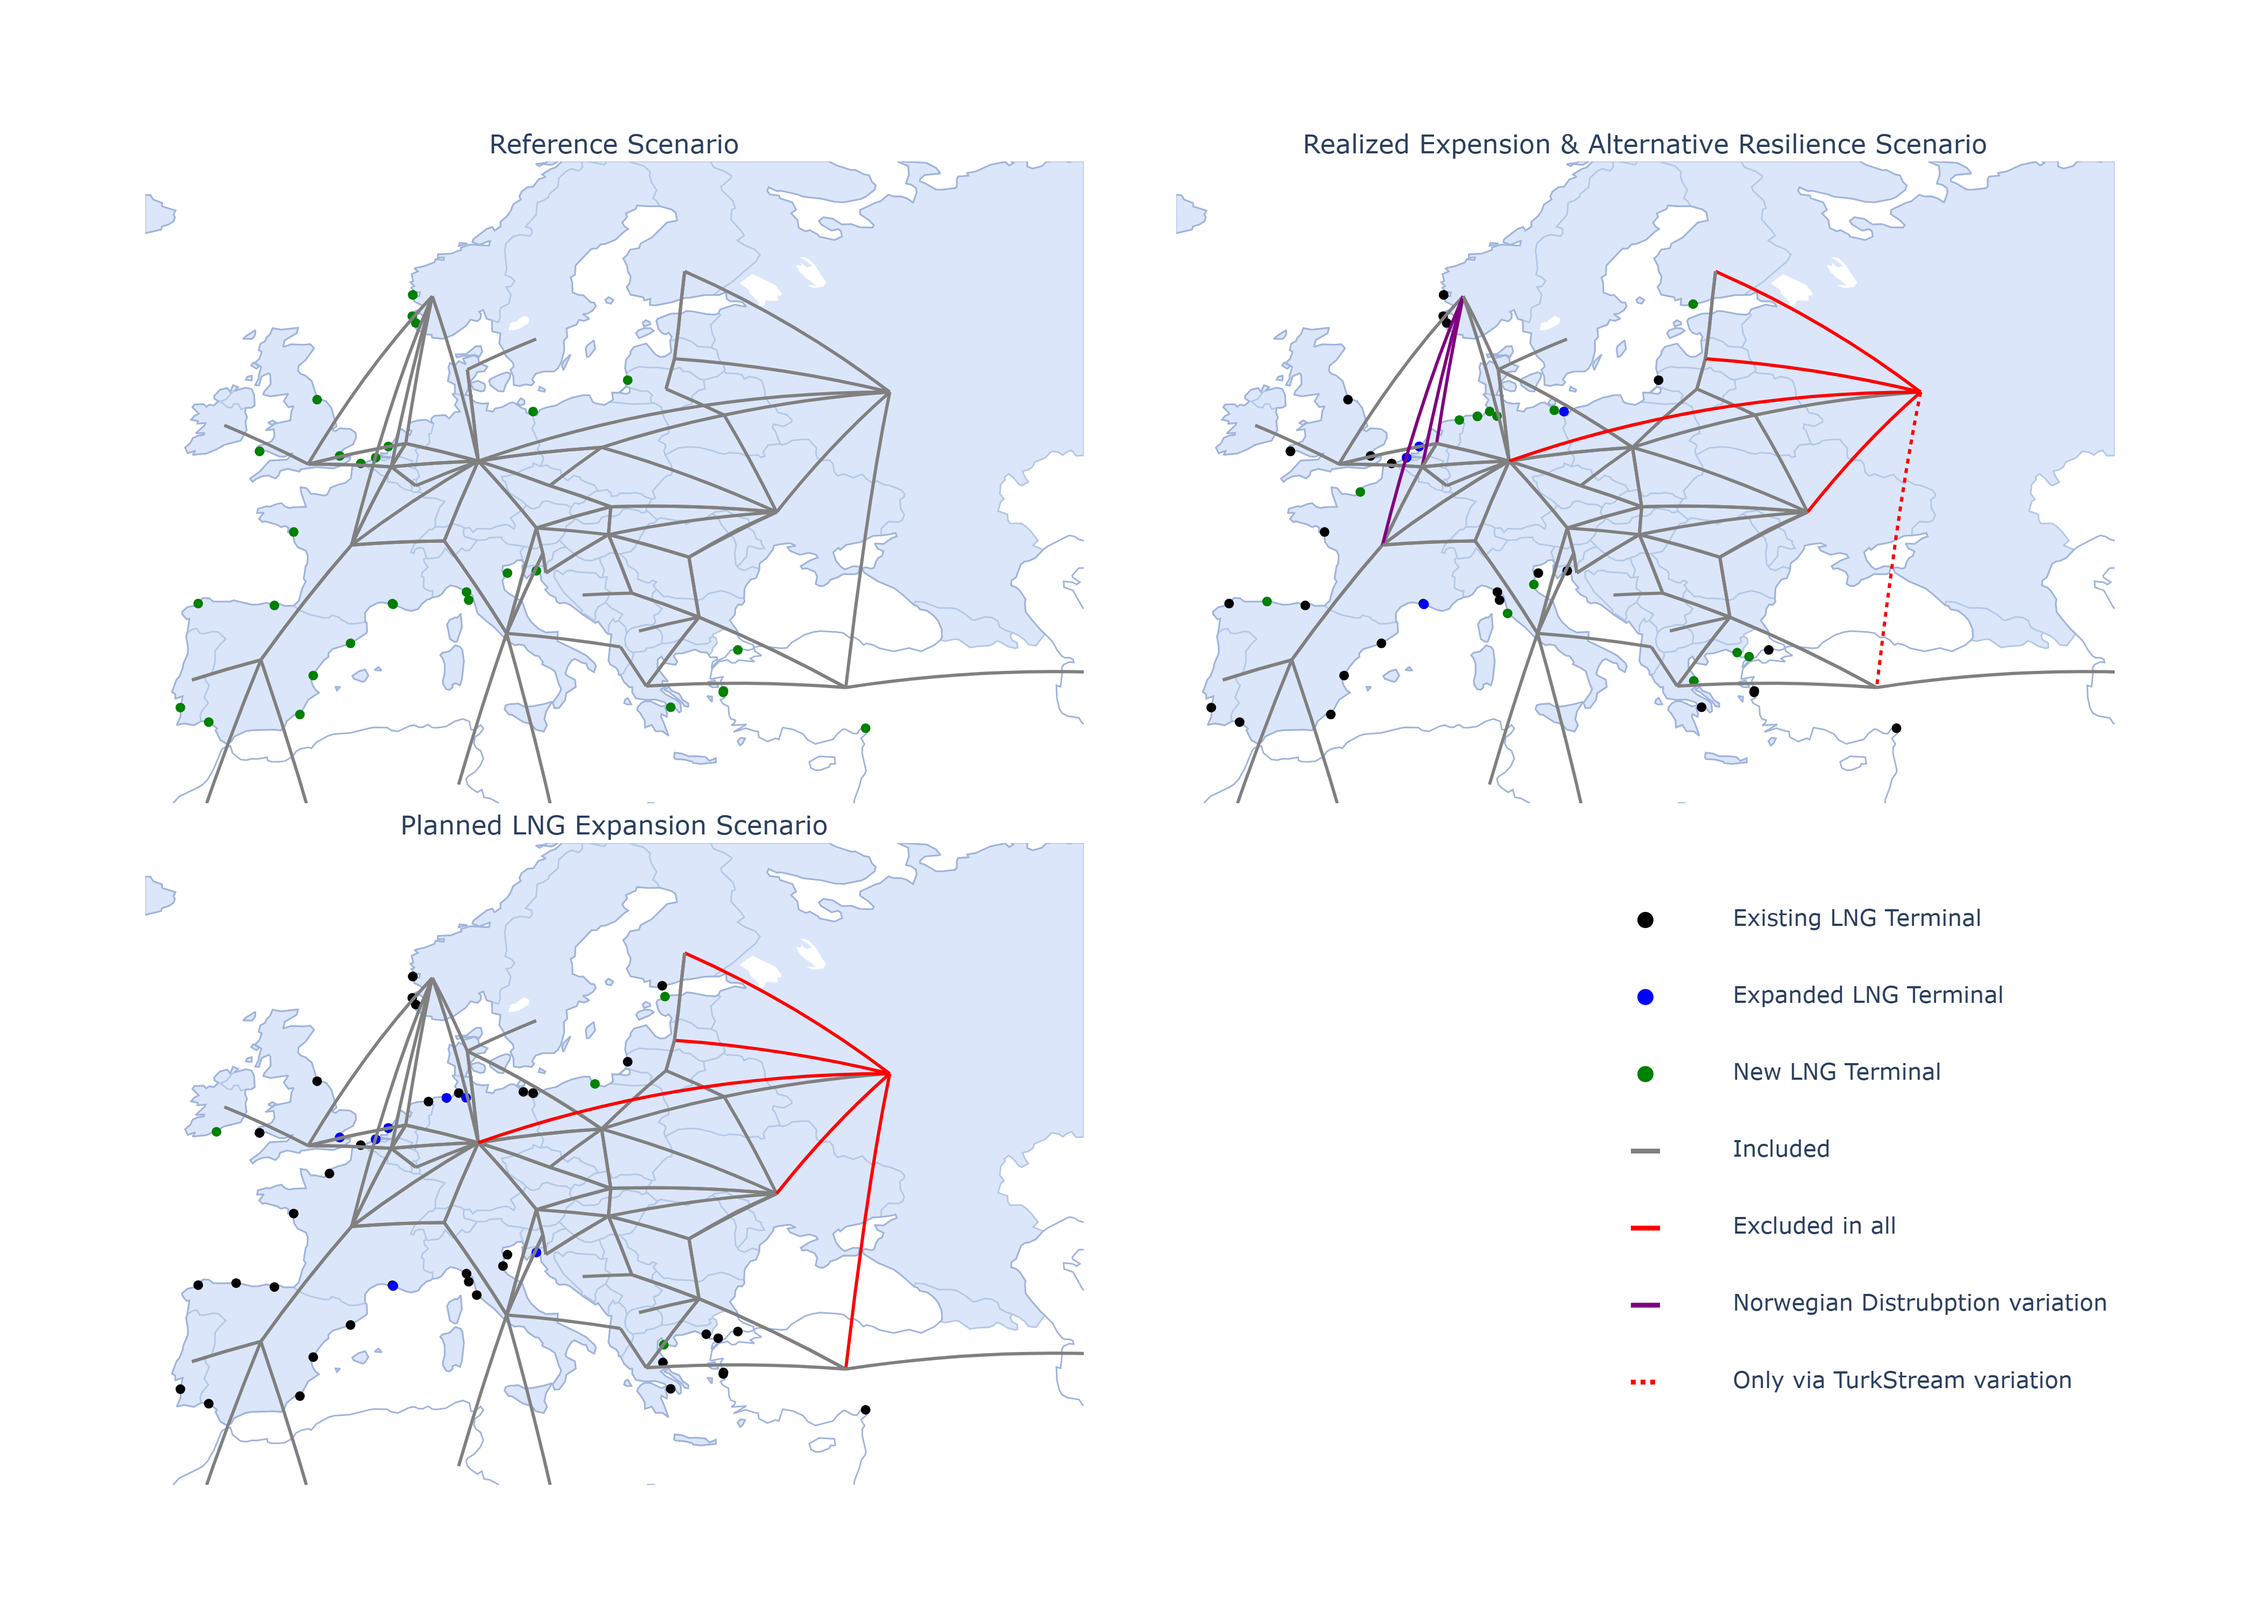
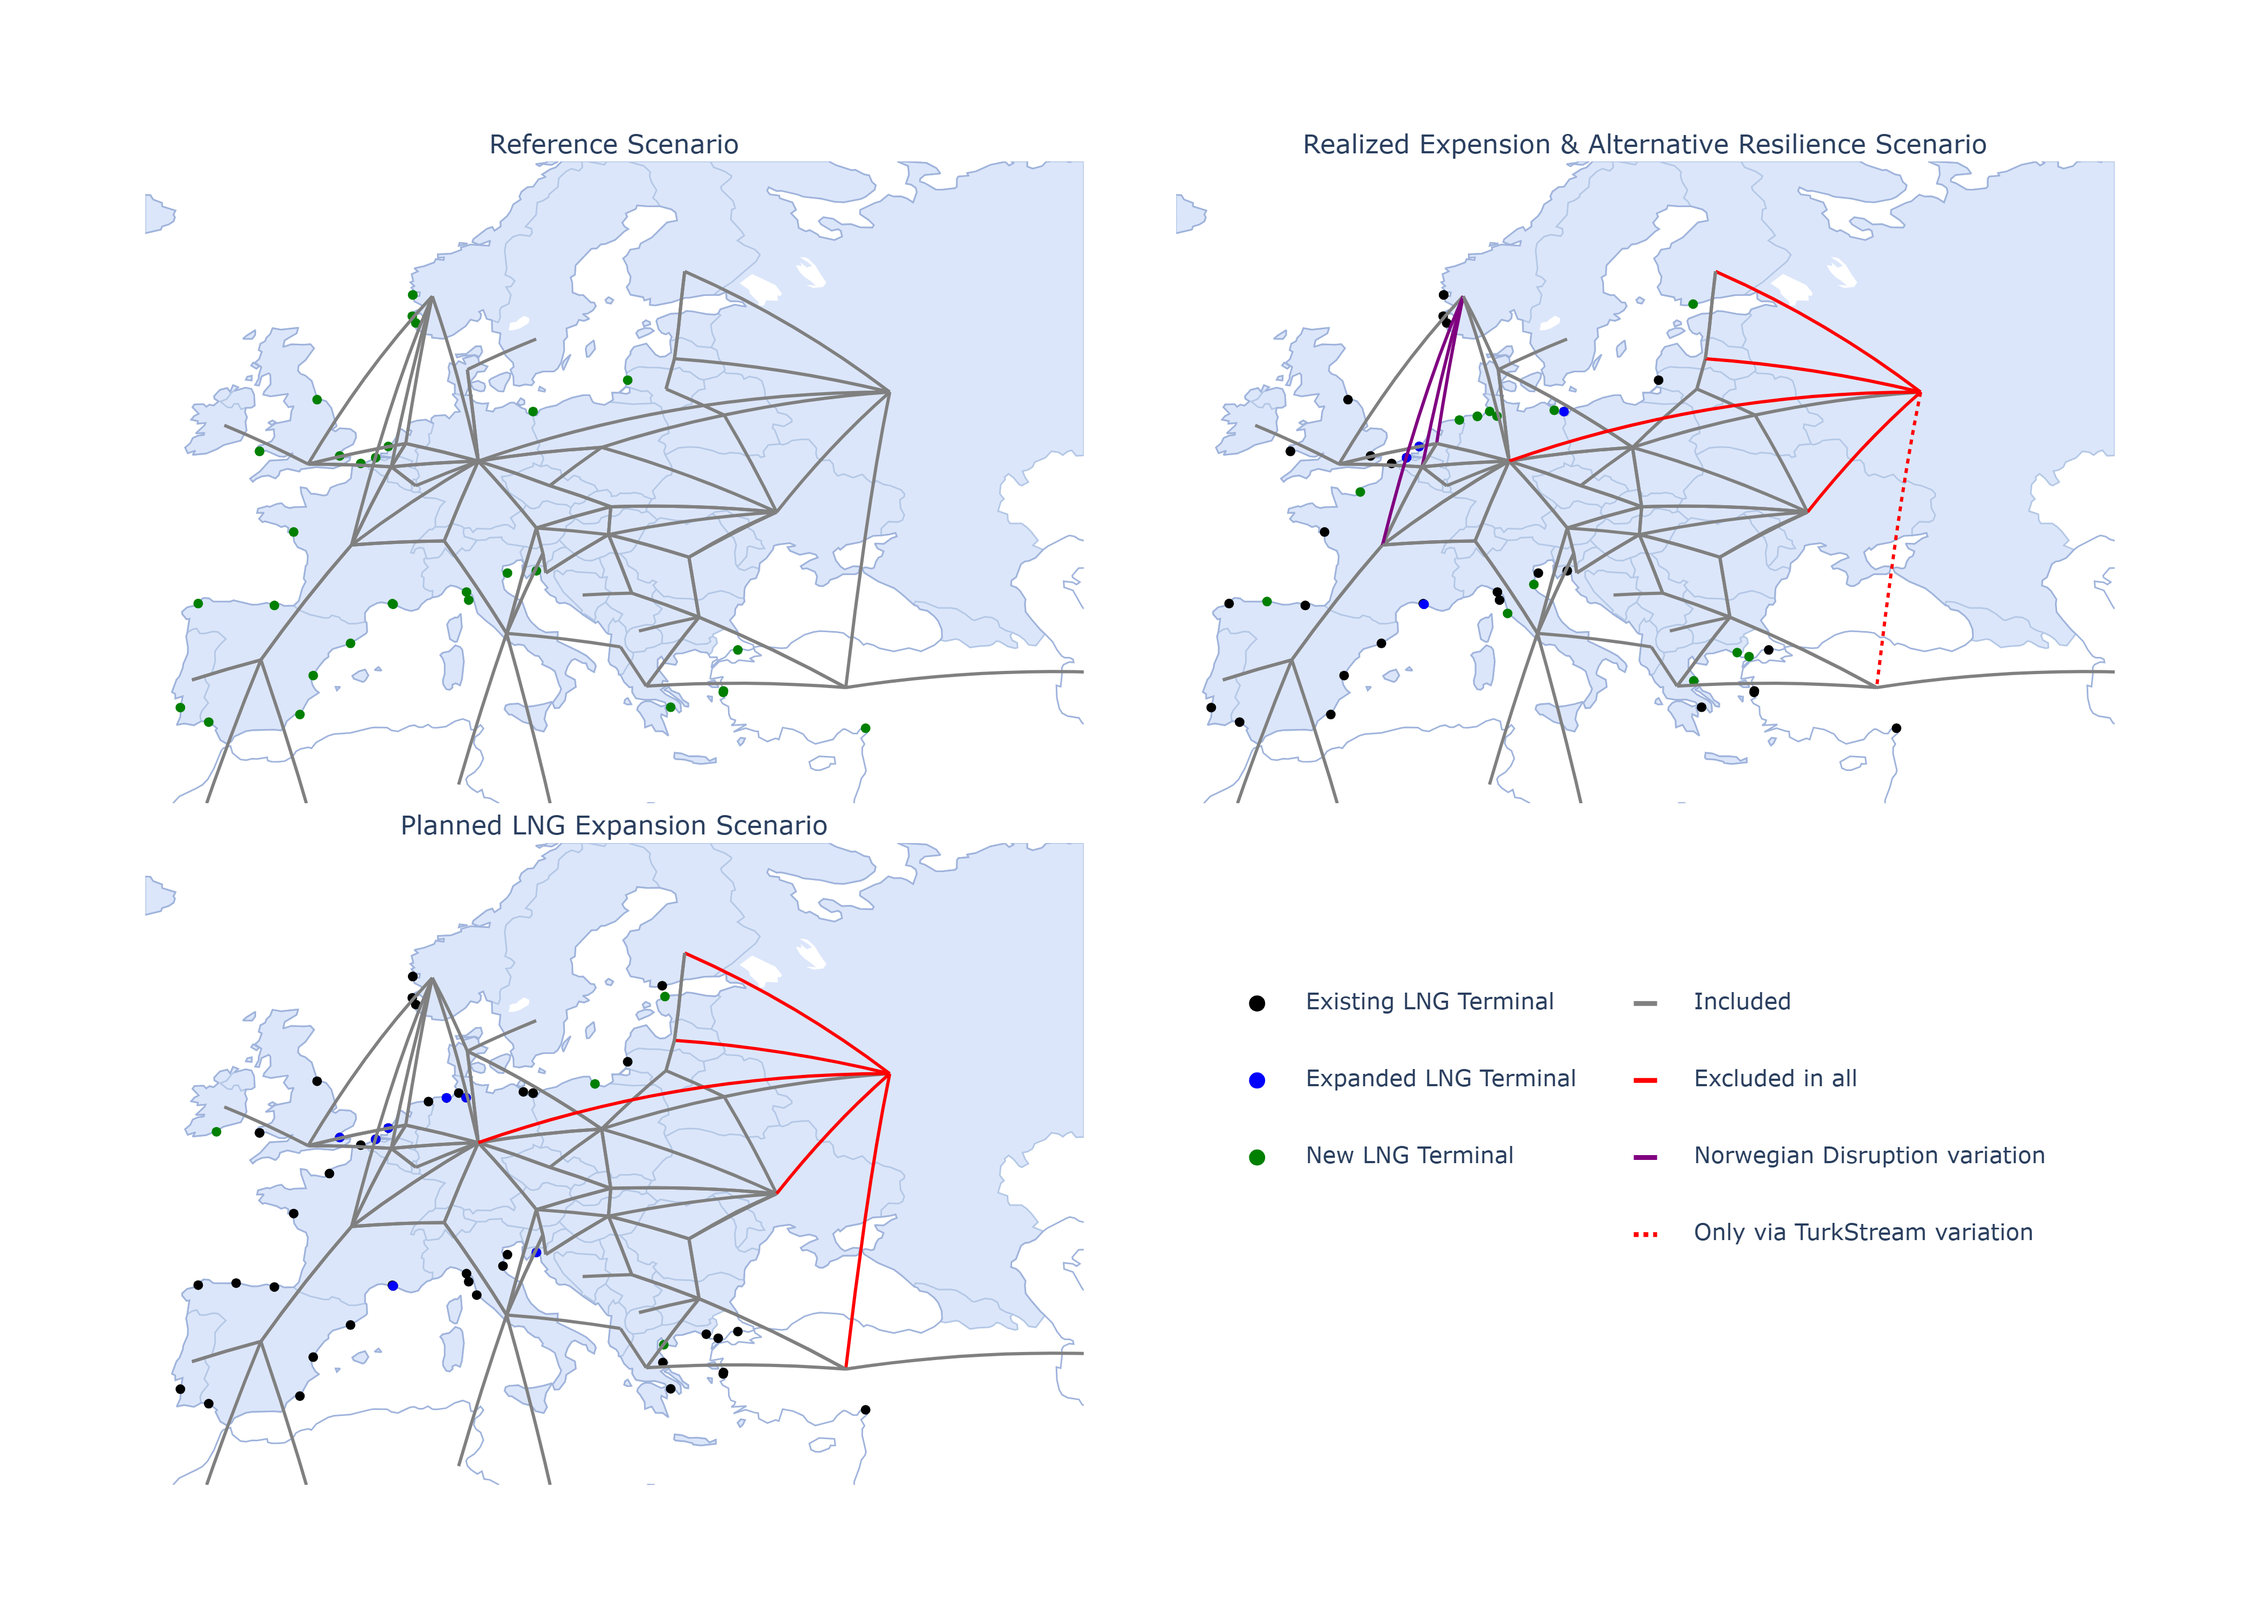
move function for plot to functions file

diff --git a/00_code_base/08_output_preparation/year_difference_functions.py b/00_code_base/08_output_preparation/year_difference_functions.py
@@ -264,24 +264,26 @@ def plot_three_years_2x2(df_ports_2021, pipelines_2021, pipeline_status_2021,
                          df_ports_2035, pipelines_2035, pipeline_status_2035,
                          base_path, save=False):
     """
-    Create a 2x2 subplot layout with:
-      - Top row: 2021 and 2024
-      - Bottom-left: 2035
-      - Bottom-right: legend only
+    2x2 layout:
+    - Top row: 2021, 2024
+    - Bottom row: 2035, Legend (symbols + lines)
+    Legend drawn without title, with white background and correct colors/styles.
     """
 
-    # --- Subplot grid setup ---
     fig = make_subplots(
         rows=2, cols=2,
         specs=[[{"type": "scattergeo"}, {"type": "scattergeo"}],
-               [{"type": "scattergeo"}, {"type": "domain"}]],  # bottom-right = legend space
-        subplot_titles=("2021 - Reference Scenario",
-                        "2024 - Realized & Resilience Scenario",
-                        "2035 - Planned Expansion Scenario",
-                        "Legend")
+               [{"type": "scattergeo"}, {"type": "xy"}]],
+        subplot_titles=("Reference Scenario",
+                        "Realized Expension & Alternative Resilience Scenario",
+                        "Planned LNG Expansion Scenario", ""),
+        column_widths=[0.5, 0.5],
+        row_heights=[0.5, 0.5],
+        horizontal_spacing=0.03,
+        vertical_spacing=0.03
     )
 
-    # --- Colors and names ---
+    # --- Colors ---
     color_map_ports = {'old': 'black', 'upgraded': 'blue', 'new': 'green'}
     color_map_pipelines = {
         'included': 'gray',
@@ -296,50 +298,40 @@ def plot_three_years_2x2(df_ports_2021, pipelines_2021, pipeline_status_2021,
         'included_in_wRU_only': 'Only via TurkStream',
     }
 
-    # --- Helper to add data to a subplot ---
-    def add_traces(df_ports, pipelines_df, pipeline_status, row, col,
-                   show_legend_ports=False, show_legend_pipes=False):
-        # LNG Terminals
+    # --- Helper function to add traces ---
+    def add_traces(df_ports, pipelines_df, pipeline_status, row, col):
         for status in ['old', 'upgraded', 'new']:
             ports = df_ports[df_ports['Status'] == status]
             fig.add_trace(go.Scattergeo(
                 lon=ports['Longitude'],
                 lat=ports['Latitude'],
                 mode='markers',
-                marker=dict(size=6, color=color_map_ports[status], symbol='circle'),
-                name=f'LNG Terminal ({status})',
-                showlegend=show_legend_ports
+                marker=dict(size=6, color=color_map_ports[status]),
+                showlegend=False
             ), row=row, col=col)
 
-        # Pipelines
-        legend_shown = set()
-        for _, row_data in pipelines_df.iterrows():
-            edge = row_data['Edge']
+        for _, r in pipelines_df.iterrows():
+            edge = r['Edge']
             status = pipeline_status.get(edge, 'included')
             color = color_map_pipelines.get(status, 'gray')
-
-            show_legend = status not in legend_shown if show_legend_pipes else False
-            legend_shown.add(status)
-
             line_style = dict(width=2, color=color)
             if status == 'included_in_wRU_only':
                 line_style['dash'] = 'dot'
 
             fig.add_trace(go.Scattergeo(
-                lon=[row_data['Source_lon'], row_data['Target_lon']],
-                lat=[row_data['Source_lat'], row_data['Target_lat']],
+                lon=[r['Source_lon'], r['Target_lon']],
+                lat=[r['Source_lat'], r['Target_lat']],
                 mode='lines',
                 line=line_style,
-                name=status_name_map.get(status, 'Included'),
-                showlegend=show_legend
+                showlegend=False
             ), row=row, col=col)
 
-    # --- Add maps to subplots ---
-    add_traces(df_ports_2021, pipelines_2021, pipeline_status_2021, row=1, col=1)
-    add_traces(df_ports_2024, pipelines_2024, pipeline_status_2024, row=1, col=2, show_legend_ports=True, show_legend_pipes=True)
-    add_traces(df_ports_2035, pipelines_2035, pipeline_status_2035, row=2, col=1)
+    # --- Add maps ---
+    add_traces(df_ports_2021, pipelines_2021, pipeline_status_2021, 1, 1)
+    add_traces(df_ports_2024, pipelines_2024, pipeline_status_2024, 1, 2)
+    add_traces(df_ports_2035, pipelines_2035, pipeline_status_2035, 2, 1)
 
-    # --- Configure map appearance ---
+    # --- Configure maps ---
     for geo_id in ['geo', 'geo2', 'geo3']:
         fig.update_layout(**{
             geo_id: dict(
@@ -357,25 +349,92 @@ def plot_three_years_2x2(df_ports_2021, pipelines_2021, pipeline_status_2021,
             )
         })
 
-    # --- Legend layout ---
+    # --- Legend items for bottom-right subplot ---
+    # --- Legend items grouped into two columns ---
+    terminals = [
+        {"type": "marker", "color": "black", "label": "Existing LNG Terminal"},
+        {"type": "marker", "color": "blue", "label": "Expanded LNG Terminal"},
+        {"type": "marker", "color": "green", "label": "New LNG Terminal"},
+    ]
+
+    pipelines = [
+        {"type": "line", "color": "gray", "label": "Included", "dash": "solid"},
+        {"type": "line", "color": "red", "label": "Excluded in all", "dash": "solid"},
+        {"type": "line", "color": "purple", "label": "Norwegian Disruption variation", "dash": "solid"},
+        {"type": "line", "color": "red", "label": "Only via TurkStream variation", "dash": "dot"},
+    ]
+
+    # Fix the axis ranges for the legend subplot
+    fig.update_xaxes(range=[0, 1], row=2, col=2, visible=False, autorange=False)
+    fig.update_yaxes(range=[0, 1], row=2, col=2, visible=False, autorange=False)
+
+    # --- Layout configuration ---
+    marker_size = 10
+    text_size = 14
+    line_half = 0.012      # line length
+    text_offset = 0.05     # text offset (to the right of symbol/line)
+    left_col_center = 0.1
+    right_col_center = 0.5
+
+    # Vertically centered positions
+    y_start = 0.75
+    y_gap = 0.12
+    y_positions = [y_start - i * y_gap for i in range(max(len(terminals), len(pipelines)))]
+
+    # --- Helper for adding a legend entry ---
+    def add_legend_entry(center_x, y, item):
+        if item["type"] == "marker":
+            # Symbol
+            fig.add_trace(go.Scatter(
+                x=[center_x], y=[y],
+                mode="markers",
+                marker=dict(size=marker_size, color=item["color"]),
+                showlegend=False,
+                hoverinfo="skip"
+            ), row=2, col=2)
+        else:
+            # Line
+            fig.add_trace(go.Scatter(
+                x=[center_x - line_half, center_x + line_half], y=[y, y],
+                mode="lines",
+                line=dict(color=item["color"], width=3, dash=item.get("dash", "solid")),
+                showlegend=False,
+                hoverinfo="skip"
+            ), row=2, col=2)
+
+        # Text slightly to the right (same logic as your original)
+        fig.add_trace(go.Scatter(
+            x=[center_x + text_offset], y=[y],
+            text=[item["label"]],
+            mode="text",
+            textfont=dict(size=text_size),
+            showlegend=False,
+            hoverinfo="skip",
+            textposition="middle right"
+        ), row=2, col=2)
+
+    # --- Add both columns ---
+    for item, y in zip(terminals, y_positions[:len(terminals)]):
+        add_legend_entry(left_col_center, y, item)
+
+    for item, y in zip(pipelines, y_positions[:len(pipelines)]):
+        add_legend_entry(right_col_center, y, item)
+
+    fig.update_xaxes(visible=False, row=2, col=2)
+    fig.update_yaxes(visible=False, row=2, col=2)
+
+    # --- Layout adjustments ---
     fig.update_layout(
-        legend=dict(
-            orientation='v',
-            yanchor='middle',
-            y=0.5,
-            xanchor='center',
-            x=0.5,
-            title=None
-        ),
-        width=1600,
-        height=1000,
+        paper_bgcolor='white',   # entire figure background
+        plot_bgcolor='white',    # area behind subplots
+        width=1400,
+        height=1000
     )
 
     # --- Save or show ---
     if save:
         output_path = os.path.join(base_path, "02_plots", "base_map_2x2.png")
-        fig.write_image(output_path, width=1600, height=1000, scale=3)
-        print(f"✅ 2x2 subplot figure saved to: {output_path}")
+        fig.write_image(output_path, width=1400, height=1000, scale=3)
     else:
         fig.show()
 

diff --git a/00_code_base/08_output_preparation/plot_visualization.py b/00_code_base/08_output_preparation/plot_visualization.py
@@ -100,7 +100,17 @@ pipeline_status_2035 = scenario_pipeline_exclusions_RU(input_excluded_pipelines,
 #plot_map(df_ports_2024, pipelines_2024, pipeline_status_2024, 2024, base_path, False)
 #plot_map(df_ports_2035, pipelines_2035, pipeline_status_2035, 2035, base_path, False)
 
-plot_three_years_subplots(df_ports_2021, pipelines_2021, pipeline_status_2021, df_ports_2024, pipelines_2024, pipeline_status_2024,df_ports_2035, pipelines_2035, pipeline_status_2035,base_path,save=True)
+plot_three_years_subplots(df_ports_2021, pipelines_2021, pipeline_status_2021, 
+                          df_ports_2024, pipelines_2024, pipeline_status_2024,
+                          df_ports_2035, pipelines_2035, pipeline_status_2035,base_path,save=True)
+
+#as 2x2 illustration
+plot_three_years_2x2(
+    df_ports_2021, pipelines_2021, pipeline_status_2021,
+    df_ports_2024, pipelines_2024, pipeline_status_2024,
+    df_ports_2035, pipelines_2035, pipeline_status_2035,
+    base_path, save=True
+)
 
 
 '''
